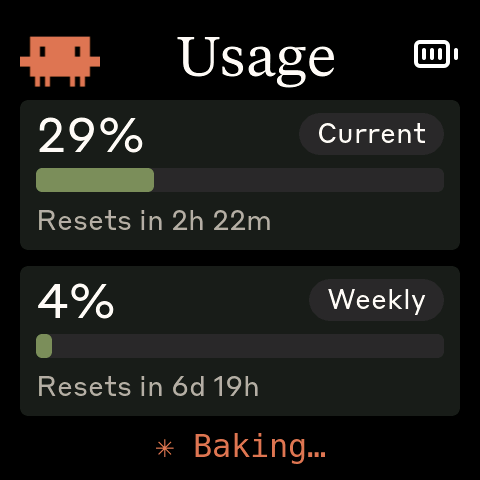
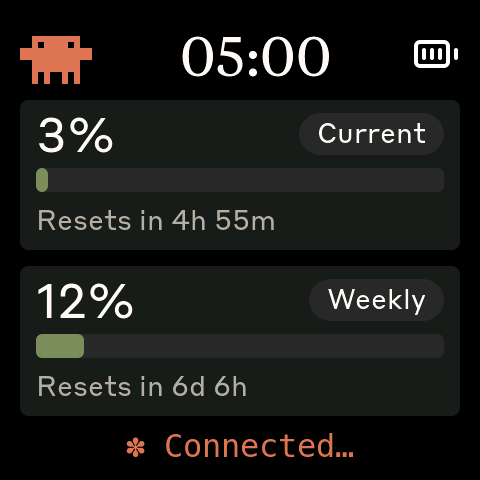
docs: rework README around the official art; regenerate all media
README is reader-focused: install guides, protocol, and buttons stay; the
font/icon/animation maintainer workflows move to docs/fonts.md and
tools/README.md, replaced by a Development section indexing the simulator
(SIM-USAGE.md), asset tooling, porting docs, and CLAUDE.md. Root CLAUDE.md
documents the animation pipeline, engine behavior, and where the official
assets live plus how to probe for new seasonal drops.

All media is generated from the converted firmware data, pixel-identical to
the device: screenshots/splash.gif (full sailing scene, intro -> loop ->
outro), refreshed usage.png with the corner mascot, assets/demo.gif
(dancing, 30 KB vs the previous 4 MB), and three transparent decoration
GIFs in assets/readme/ (waving, magnifier, crab walking).

diff --git a/clock/README.md b/clock/README.md
@@ -1,16 +1,14 @@
 # Clawdmeter
 
+<img src="assets/readme/waving.gif" width="120" align="right" alt="">
+
 A small ESP32 dashboard I made for my desk to keep an eye on Claude Code usage.
 
 It runs on a [Waveshare ESP32-S3-Touch-AMOLED-2.16](https://www.waveshare.com/esp32-s3-touch-amoled-2.16.htm?&aff_id=149786) as well as a few other alternative boards and pairs over Bluetooth, the splash screen plays pixel-art Clawd animations that get
 busier when your usage rate climbs. The two side buttons send Space and
 Shift+Tab over BLE HID for Claude Code's voice mode and mode-toggle shortcuts.
 
-|              Usage meter              |              Clawd animation screen              |
-| :-----------------------------------: | :----------------------------------------------: |
-| ![Usage meter](assets/demo.jpeg) | ![Clawd animation screen](assets/demo.gif) |
-
-The Clawd animations come from [claudepix](https://claudepix.vercel.app), [@amaanbuilds](https://x.com/amaanbuilds)'s library of pixel-art Clawd sprites, check it out, it's lovely.
+![Usage meter](assets/demo.jpeg)
 
 ## Screens
 
@@ -18,7 +16,7 @@ The device boots into the splash. Tap the screen anywhere to switch to the Usage
 
 |              Splash               |              Usage              |
 | :-------------------------------: | :-----------------------------: |
-| ![Splash](screenshots/splash.png) | ![Usage](screenshots/usage.png) |
+| ![Splash](screenshots/splash.gif) | ![Usage](screenshots/usage.png) |
 |   Splash; touch-toggle anytime    | Session and weekly utilization  |
 
 While the splash is up, the middle (PWR) button cycles animations. **Hold the power button for 3 seconds, then release, to put the device into pairing mode** — this clears the saved Bluetooth bond and re-advertises. The firmware also auto-rotates animations every 20 s within the current usage-rate group, so a long stretch on the splash isn't just one Clawd on loop.
@@ -28,11 +26,11 @@ While the splash is up, the middle (PWR) button cycles animations. **Hold the po
 Boards supported out of the box:
 
 - [Waveshare ESP32-S3-Touch-AMOLED-2.16](https://www.waveshare.com/esp32-s3-touch-amoled-2.16.htm?&aff_id=149786)
-- [Waveshare ESP32-C6-Touch-AMOLED-2.16](https://www.waveshare.com/esp32-c6-touch-amoled-2.16.htm?&aff_id=149786) 
+- [Waveshare ESP32-C6-Touch-AMOLED-2.16](https://www.waveshare.com/esp32-c6-touch-amoled-2.16.htm?&aff_id=149786)
 - [Waveshare ESP32-S3-Touch-AMOLED-1.8](https://www.waveshare.com/esp32-s3-touch-amoled-1.8.htm?&aff_id=149786)
 - [Waveshare ESP32-C6-Touch-AMOLED-1.8](https://www.waveshare.com/esp32-c6-touch-amoled-1.8.htm?&aff_id=149786)
 - [Waveshare ESP32-S3-Touch-AMOLED-2.06](https://www.waveshare.com/esp32-s3-touch-amoled-2.06.htm?&aff_id=149786)
-- [Waveshare ESP32-S3-Touch-LCD-1.54](https://www.waveshare.com/esp32-s3-lcd-1.54.htm?sku=33869) (240x240 SPI TFT, not AMOLED)
+- [Waveshare ESP32-S3-Touch-LCD-1.54](https://www.waveshare.com/esp32-s3-lcd-1.54.htm?sku=33869&aff_id=149786)
 
 > Please check if a pull request exists for your alternative hardware port before opening a new one, providing QA feedback and testing on the same hardware is more valuable than duplicate pull requests.
 
@@ -62,7 +60,7 @@ The board env name is required. Run `./flash-mac.sh` with no args to see the ava
 
 ### Pair the device
 
-After flashing, open **System Settings → Bluetooth** and click *Connect* next to "Clawdmeter". The daemon only ever connects to the peripheral this Mac is paired/connected to — it never scans for a nearby device — so once it's connected here the daemon picks it up on its next poll (~60 s).
+After flashing, open **System Settings → Bluetooth** and click _Connect_ next to "Clawdmeter". The daemon only ever connects to the peripheral this Mac is paired/connected to — it never scans for a nearby device — so once it's connected here the daemon picks it up on its next poll (~60 s).
 
 ### Install the daemon
 
@@ -129,7 +127,7 @@ Runs natively on Windows — no WSL required. A system-tray app polls your usage
 ### Prerequisites
 
 - **Native Windows** (not WSL).
-- **Python 3.11+** from [python.org](https://www.python.org/downloads/) — check *"Add python.exe to PATH"* during install.
+- **Python 3.11+** from [python.org](https://www.python.org/downloads/) — check _"Add python.exe to PATH"_ during install.
 - **Claude Code** installed, with `claude login` completed. The token is read from `%USERPROFILE%\.claude\.credentials.json` (falling back to `%LOCALAPPDATA%\Claude\` then `%APPDATA%\Claude\`).
 - The repo on a **native Windows path** (e.g. `%USERPROFILE%\Clawdmeter`), **not** a `\\wsl$` share — the installer refuses a WSL path.
 
@@ -179,14 +177,16 @@ Get-Content $env:LOCALAPPDATA\Clawdmeter\daemon.log -Tail 30        # view logs
 reg delete "HKCU\Software\Microsoft\Windows\CurrentVersion\Run" /v Clawdmeter /f   # remove autostart
 ```
 
-| Symptom | Fix |
-|---------|-----|
-| `Device not found` | Power on the device; make sure it's in range and paired. |
-| `token expired` toast / `API HTTP 401` | Re-run `claude login`, then restart the daemon. |
-| `Connection failed` | Toggle Windows Bluetooth off/on in Settings. |
-| `Warning: running under Linux/WSL` | Run from a native PowerShell window, not a WSL shell. |
+| Symptom                                | Fix                                                      |
+| -------------------------------------- | -------------------------------------------------------- |
+| `Device not found`                     | Power on the device; make sure it's in range and paired. |
+| `token expired` toast / `API HTTP 401` | Re-run `claude login`, then restart the daemon.          |
+| `Connection failed`                    | Toggle Windows Bluetooth off/on in Settings.             |
+| `Warning: running under Linux/WSL`     | Run from a native PowerShell window, not a WSL shell.    |
 
 ## How it works
+
+<img src="assets/readme/magnifier.gif" width="150" align="right" alt="">
 
 1. The daemon reads your Claude Code OAuth token — from the macOS Keychain (service `Claude Code-credentials`) on macOS, or from `~/.claude/.credentials.json` on Linux (`%USERPROFILE%\.claude\.credentials.json` on Windows).
 2. It makes a minimal API call to `api.anthropic.com/v1/messages` — one token of Haiku, basically free.
@@ -200,11 +200,11 @@ reg delete "HKCU\Software\Microsoft\Windows\CurrentVersion\Run" /v Clawdmeter /f
 
 The board has three side buttons. Left and right send HID keys; the middle (PWR) button cycles splash animations and, held for 3 seconds, triggers pairing mode.
 
-| Button           | GPIO         | Function                                                       |
-| ---------------- | ------------ | -------------------------------------------------------------- |
-| **Left**         | GPIO 0       | Hold to send Space (Claude Code voice-mode push-to-talk)       |
+| Button           | GPIO         | Function                                                     |
+| ---------------- | ------------ | ------------------------------------------------------------ |
+| **Left**         | GPIO 0       | Hold to send Space (Claude Code voice-mode push-to-talk)     |
 | **Middle** (PWR) | AXP2101 PKEY | On splash: cycle animations. Hold 3s + release: pairing mode |
-| **Right**        | GPIO 18      | Press to send Shift+Tab (Claude Code mode toggle)              |
+| **Right**        | GPIO 18      | Press to send Shift+Tab (Claude Code mode toggle)            |
 
 Space and Shift+Tab go out as standard BLE HID keyboard reports, so they trigger in whatever window has focus on the paired host — not just Claude Code.
 
@@ -227,76 +227,29 @@ JSON payload format (written to RX):
 
 Fields: `s` = session %, `sr` = session reset (minutes), `w` = weekly %, `wr` = weekly reset (minutes), `st` = status, `ok` = success flag.
 
-## Recompiling fonts
+## Development
 
-The `firmware/src/font_*.c` files are pre-compiled LVGL bitmap fonts.
+<img src="assets/readme/crab.gif" width="120" align="right" alt="">
 
-```bash
-npm install -g lv_font_conv
-```
-
-Generate each one (one at a time — `lv_font_conv` doesn't like loop-driven invocations) with `--no-compress` (required for LVGL 9):
-
-```bash
-# Tiempos Text (titles, 56px)
-lv_font_conv --font assets/TiemposText-400-Regular.otf -r 0x20-0x7E \
-  --size 56 --format lvgl --bpp 4 --no-compress \
-  -o firmware/src/font_tiempos_56.c --lv-include "lvgl.h"
-
-# Styrene B (large numbers 48, panel labels 28, small text 24, minimal 20)
-for size in 48 28 24 20; do
-  lv_font_conv --font assets/StyreneB-Regular.otf -r 0x20-0x7E \
-    --size $size --format lvgl --bpp 4 --no-compress \
-    -o firmware/src/font_styrene_${size}.c --lv-include "lvgl.h"
-done
-
-# DejaVu Sans Mono (32px, with spinner Unicode chars)
-lv_font_conv --font assets/DejaVuSansMono.ttf \
-  -r 0x20-0x7E,0xB7,0x2026,0x2722,0x2733,0x2736,0x273B,0x273D \
-  --size 32 --format lvgl --bpp 4 --no-compress \
-  -o firmware/src/font_mono_32.c --lv-include "lvgl.h"
-```
-
-**Important:** `lv_font_conv` v1.5.3 outputs LVGL 8 format. Each generated file must be patched for LVGL 9 compatibility:
-
-1. Remove `#if LVGL_VERSION_MAJOR >= 8` guards around `font_dsc` and the font struct
-2. Remove the `.cache` field from `font_dsc`
-3. Add `.release_glyph = NULL`, `.kerning = 0`, `.static_bitmap = 0` to the font struct
-4. Add `.fallback = NULL`, `.user_data = NULL` to the font struct
-
-Without these patches, fonts compile but render as invisible.
-
-## Converting Lucide icons
-
-The UI uses a small set of [Lucide](https://lucide.dev) icons (bluetooth + battery states) converted to RGB565 / RGB565A8 C arrays for LVGL.
-
-```bash
-node tools/png_to_lvgl.js assets/icon_bluetooth_48.png icon_bluetooth_data ICON_BLUETOOTH_WIDTH ICON_BLUETOOTH_HEIGHT
-```
-
-Default tint is white (`0xFFFFFF`); Lucide PNGs ship as black-on-transparent and would render invisible against the dark UI without it. Pass `--no-tint` for pre-coloured artwork like the logo. Battery icons use RGB565A8 (alpha plane) so they blend cleanly over the splash; the rest are baked RGB565 over the panel colour. Paste the converter output into `firmware/src/icons.h`.
-
-## Splash animations
-
-The animations come from [claudepix.vercel.app](https://claudepix.vercel.app),
-a library of Clawd sprites. `tools/scrape_claudepix.js` evaluates the
-site's JavaScript in a Node VM to pull out frame data and palettes, then
-`tools/convert_to_c.js` turns everything into RGB565 C arrays and writes
-`firmware/src/splash_animations.h`.
-
-To re-pull (e.g. when the source library updates):
-
-```bash
-node tools/scrape_claudepix.js
-node tools/convert_to_c.js
-pio run -d firmware -t upload
-```
-
-See `tools/README.md` for details.
+- **Desktop simulator** — iterate on the UI without hardware: an SDL2 window
+  runs the full firmware loop with scenario playback (`pio run -d firmware -e
+sim`, then `cd firmware && .pio/build/sim/program`). See
+  [`SIM-USAGE.md`](SIM-USAGE.md) for controls, scenarios, and headless
+  screenshots.
+- **Splash animations** — Anthropic's official Clawd sprites, archived with
+  provenance notes in [`research/clawd-official/`](research/clawd-official/);
+  `node tools/convert_official_clawd.js` regenerates
+  `firmware/src/splash_animations.h`. See [`tools/README.md`](tools/README.md).
+- **Icons** — Lucide PNGs convert to LVGL C arrays with
+  `tools/png_to_lvgl.js`. See [`tools/README.md`](tools/README.md).
+- **Fonts** — the pre-compiled LVGL fonts and the LVGL-9 patching they need:
+  [`docs/fonts.md`](docs/fonts.md).
+- **Porting** — [`docs/porting/adding-a-board.md`](docs/porting/adding-a-board.md)
+  and [`docs/porting/hal-contract.md`](docs/porting/hal-contract.md).
 
 ## Credits
 
-- Pixel-art Clawd animation by [@amaanbuilds](https://x.com/amaanbuilds), sourced from [claudepix.vercel.app](https://claudepix.vercel.app). Frame data and palettes scraped + converted by the tooling in `tools/`.
+- Pixel-art Clawd animations are Anthropic's official mascot art (claude.ai/code, Claude Code desktop), archived and converted by the tooling in `tools/` and `research/clawd-official/`.
 - Lucide icon set ([lucide.dev](https://lucide.dev), MIT) for bluetooth and battery UI glyphs.
 - Anthropic brand fonts (Tiempos Text, Styrene B) — see licensing warning below.
 

diff --git a/clock/CLAUDE.md b/clock/CLAUDE.md
@@ -161,7 +161,7 @@ The boot screen is `SCREEN_SPLASH` and only advances on a physical button press,
 1. **CO5300 cannot rotate.** Its MADCTL only supports axis flips, not column/row exchange. Rotation is done by **CPU pixel remapping inside `display_hal_draw_bitmap`** in `boards/waveshare_amoled_216/display.cpp`. We use **PARTIAL render mode with strip rotation** (small 480×40 strips, fast). On rotation change → AMOLED brightness flash → force redraw (handled inside `display_hal_tick`).
 2. **OPI PSRAM** required: `board_build.arduino.memory_type = qio_opi` in platformio.ini. Without this, `MALLOC_CAP_SPIRAM` returns NULL and the screen is black.
 3. **pioarduino platform required.** GFX Library for Arduino needs Arduino Core 3.x (`esp32-hal-periman.h`), not the 2.x that standard `espressif32` ships. We pin `pioarduino/platform-espressif32` 55.03.38-1.
-4. **LVGL 9 font patching.** `lv_font_conv` outputs LVGL 8 format. Must remove `#if LVGL_VERSION_MAJOR >= 8` guards, drop `.cache` field, add `.release_glyph`, `.kerning`, `.static_bitmap`, `.fallback`, `.user_data`. Without patching, fonts render invisible.
+4. **LVGL 9 font patching.** `lv_font_conv` outputs LVGL 8 format. Must remove `#if LVGL_VERSION_MAJOR >= 8` guards, drop `.cache` field, add `.release_glyph`, `.kerning`, `.static_bitmap`, `.fallback`, `.user_data`. Without patching, fonts render invisible. Full regeneration recipe: `docs/fonts.md`.
 5. **Touch reading is centralized inside each board's `touch.cpp`.** The HAL `touch_hal_read()` is called once per loop from `my_touch_cb`; the board's implementation owns its latched `touch_pressed/x/y` state. Don't call the underlying controller from anywhere else — CST9220's `getPoint()` etc. do a full I2C transaction and concurrent callers consume each other's data.
 6. **Even-aligned flush regions.** `display_hal_round_area` (called from `rounder_cb`) is what each board uses to enforce this. Required on CO5300, harmless on SH8601.
 7. **Touch axis swap/mirror is per-board.** The 2.16's CST9220 needs `setSwapXY(true)` + `setMirrorXY(true, false)` — applied inside `boards/waveshare_amoled_216/touch.cpp::touch_hal_init()`. New ports apply their own.
@@ -175,15 +175,48 @@ The boot screen is `SCREEN_SPLASH` and only advances on a physical button press,
 
 ## Splash animations
 
-13 × 20×20 pixel-art creature animations sourced from
-[claudepix.vercel.app](https://claudepix.vercel.app). Pipeline:
+17 official Anthropic Clawd animations (core poses + persona scenes), archived
+with full provenance in `research/clawd-official/`. Pipeline:
 
 ```bash
-node tools/scrape_claudepix.js  # → tools/claudepix_data/*.json
-node tools/convert_to_c.js      # → firmware/src/splash_animations.h
+node tools/convert_official_clawd.js            # → firmware/src/splash_animations.h
+node tools/convert_official_clawd.js --verify DIR   # + per-animation PNGs for eyeballing
 ```
 
-Each animation has a per-animation 10-color RGB565 palette. Cell values 0..9 index it. Default boot screen.
+Requires ImageMagick; Laptop and Soccer convert from their Lottie exports
+(crisp) rather than GIFs. Frames are bounding-box crops on the official 55×37
+art stage (ox/oy = stage offset — every animation shares one idle-Clawd
+position, so transitions are seamless), one byte per cell into a per-animation
+≤16-color RGB565 palette (index 0 = background, true black), per-frame hold ms
+with duplicates collapsed (~400 KB total). The converter also: detects each
+animation's **loop region** (gait cycles, scene middles; sailing scene's is
+located by cross-matching the standalone sailing-loop asset, which is not
+emitted), synthesizes the **eyes** (transparent holes in the source GIFs) as
+`#141413` ink via border flood-fill, and applies two contrast recolors
+(trumpet notes → ivory, magnifier fedora → gray) via component analysis.
+
+The splash engine (`splash.cpp`) plays intro → loop → outro on a **60×60
+stage** (`SPLASH_GRID`, cell = min(W,H)/60 → 8 px on 480, 6 px on 368, 4 px on
+240): loops hold until released (walk arrival, scene timer, rotation), so
+switches always pass through the shared idle pose. Walkers translate with
+foot-locked per-frame schedules and mirror when heading left. Usage-rate
+groups pick animations by name; the same rate drives the **corner mascot** on
+the usage screen (`splash_mascot_*`, PSRAM boards; C6 falls back to the static
+`clawd_still.h` icon) — idle stills, rate-scaled acts, and walk-off/lurk/
+walk-back trips. Default boot screen.
+
+**Where the animations come from / finding new ones:** all assets are plain
+files under `https://claude.ai/images/clawd/{core,persona}/…` — static assets
+are not Cloudflare-gated, only HTML routes are. The asset server returns a
+real GIF for a valid filename and an HTML catch-all (both HTTP 200) otherwise,
+so **name probing works**: fetch `Clawd-<Name>.gif` and check the magic bytes.
+Seven current animations are referenced by no shipped bundle and were found
+exactly this way (Anthropic stages seasonal drops — Soccer appeared for the
+World Cup). To hunt for new ones: run `research/clawd-official/fetch.sh`
+(extend its probe list), and grep a fresh desktop .deb's `ion-dist/` bundles
+for `/images/` paths (`research/clawd-official/CLAUDE.md` documents the full
+methodology, including the Lottie sources and the assets-proxy).
+
 
 ## User profile / preferences
 

diff --git a/clock/tools/README.md b/clock/tools/README.md
@@ -1,53 +1,36 @@
-# Splash animation tools
+# Asset tools
 
-Two-step pipeline for getting third-party 20×20 pixel animations onto the device.
-
-## 1. Scrape
+## Splash animations
 
 ```bash
-node scrape_claudepix.js
+node convert_official_clawd.js
+node convert_official_clawd.js --verify /tmp/verify   # + per-animation PNGs
 ```
 
-Fetches the manifest from `claudepix.vercel.app/app.js`, then each animation's
-HTML file, evaluates the embedded JS in a Node VM context (loading the same
-`creature-engine.js` the site uses), and writes resolved frame data to
-`tools/claudepix_data/*.json`.
+Converts the official Anthropic Clawd animations archived in
+`research/clawd-official/` (GIFs decoded via ImageMagick, the Laptop and
+Soccer Lottie exports read directly) into a single
+`firmware/src/splash_animations.h`:
 
-Each output file looks like:
-```json
-{
-  "filename": "idle_breathe.html",
-  "name": "idle breathe",
-  "category": "Idle",
-  "description": "...",
-  "frame_count": 17,
-  "frames": [{ "hold": 500, "grid": [[0,0,...],[0,1,1,...],...] }, ...]
-}
-```
+- frames as bounding-box crops on the shared 55×37 art stage, one byte per
+  cell into a per-animation ≤16-color RGB565 palette (index 0 = background)
+- per-frame hold in ms, with consecutive duplicate frames collapsed
+- a detected loop region per animation (gait cycles, scene middles) that the
+  engine can hold or release for walk-to-target and timed scenes
+- the eyes — transparent holes in the source GIFs — inked as `#141413`
+- contrast recolors (trumpet notes → ivory, magnifier fedora → gray) and the
+  sailing-loop cross-match that defines the sailing scene's loop window
 
-Override URL or output dir with `--base` and `--out`.
+See `research/clawd-official/CLAUDE.md` for asset provenance and the format
+details, and `--in` / `--out` to override paths. Rebuild firmware after
+running.
 
-## 2. Convert to C
+## Icons
 
 ```bash
-node convert_to_c.js
+node png_to_lvgl.js input.png symbol_name [W_MACRO] [H_MACRO] [--tint=RRGGBB | --no-tint]
 ```
 
-Reads `tools/claudepix_data/*.json` and emits a single
-`firmware/src/splash_animations.h` with:
-- `splash_<ident>_frames[N][400]` — per-frame cell codes (0 = empty, 1 = body, 2 = eye)
-- `splash_<ident>_holds[N]` — per-frame hold time in ms
-- `splash_anims[]` — master table with name, category, frame count, pointers
-- `SPLASH_ANIM_COUNT`
-
-The firmware (`splash.cpp`) consumes this header to render and animate.
-
-## Re-running
-
-The scraper is idempotent — re-run any time the source library updates. The
-converter overwrites the header. Rebuild firmware after running both.
-
-## License note
-
-The scraper hits a public site without a stated license. Confirm reuse is
-appropriate for your case before redistributing the output.
+Converts an alpha PNG to an LVGL RGB565A8 C array. Default tint is white —
+Lucide PNGs ship black-on-transparent and would render invisible without it.
+Paste the output into `firmware/src/icons.h`.

diff --git a/clock/docs/fonts.md b/clock/docs/fonts.md
@@ -1,0 +1,40 @@
+# Recompiling fonts
+
+The `firmware/src/font_*.c` files are pre-compiled LVGL bitmap fonts.
+
+```bash
+npm install -g lv_font_conv
+```
+
+Generate each one (one at a time — `lv_font_conv` doesn't like loop-driven
+invocations) with `--no-compress` (required for LVGL 9):
+
+```bash
+# Tiempos Text (titles, 56px)
+lv_font_conv --font assets/TiemposText-400-Regular.otf -r 0x20-0x7E \
+  --size 56 --format lvgl --bpp 4 --no-compress \
+  -o firmware/src/font_tiempos_56.c --lv-include "lvgl.h"
+
+# Styrene B (large numbers 48, panel labels 28, small text 24, minimal 20)
+for size in 48 28 24 20; do
+  lv_font_conv --font assets/StyreneB-Regular.otf -r 0x20-0x7E \
+    --size $size --format lvgl --bpp 4 --no-compress \
+    -o firmware/src/font_styrene_${size}.c --lv-include "lvgl.h"
+done
+
+# DejaVu Sans Mono (32px, with spinner Unicode chars)
+lv_font_conv --font assets/DejaVuSansMono.ttf \
+  -r 0x20-0x7E,0xB7,0x2026,0x2722,0x2733,0x2736,0x273B,0x273D \
+  --size 32 --format lvgl --bpp 4 --no-compress \
+  -o firmware/src/font_mono_32.c --lv-include "lvgl.h"
+```
+
+**Important:** `lv_font_conv` v1.5.3 outputs LVGL 8 format. Each generated
+file must be patched for LVGL 9 compatibility:
+
+1. Remove `#if LVGL_VERSION_MAJOR >= 8` guards around `font_dsc` and the font struct
+2. Remove the `.cache` field from `font_dsc`
+3. Add `.release_glyph = NULL`, `.kerning = 0`, `.static_bitmap = 0` to the font struct
+4. Add `.fallback = NULL`, `.user_data = NULL` to the font struct
+
+Without these patches, fonts compile but render as invisible.
